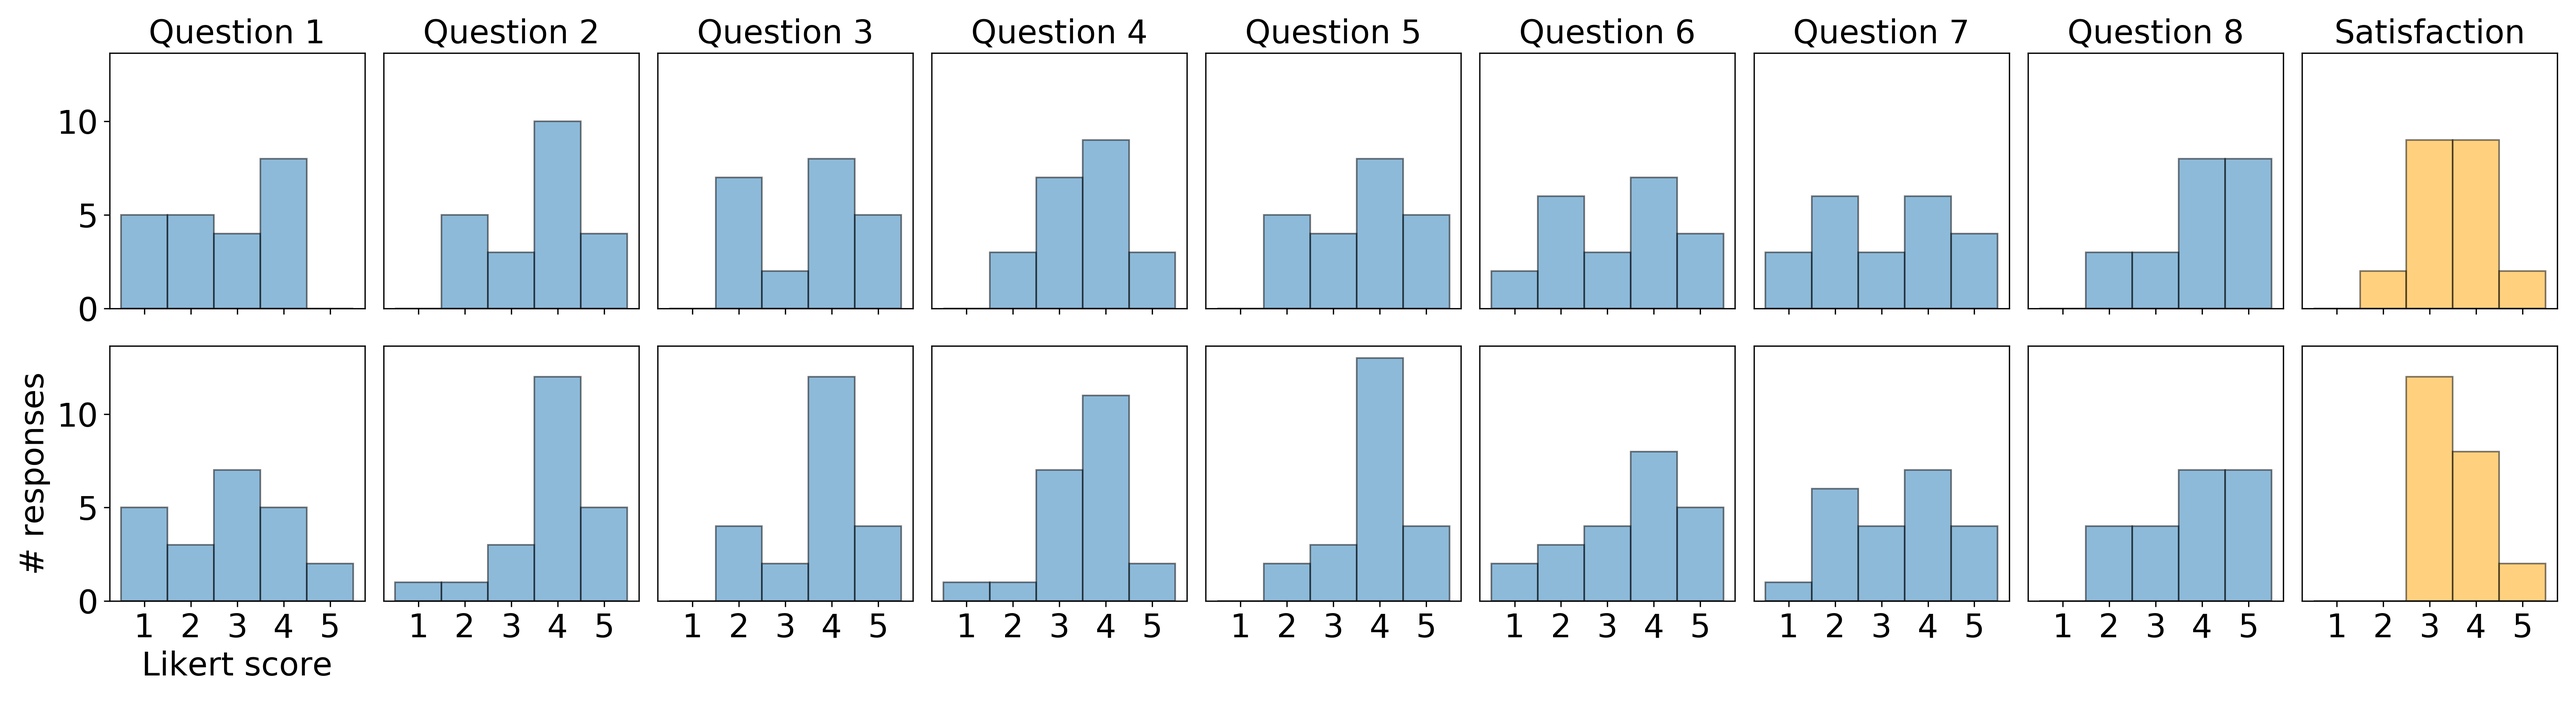
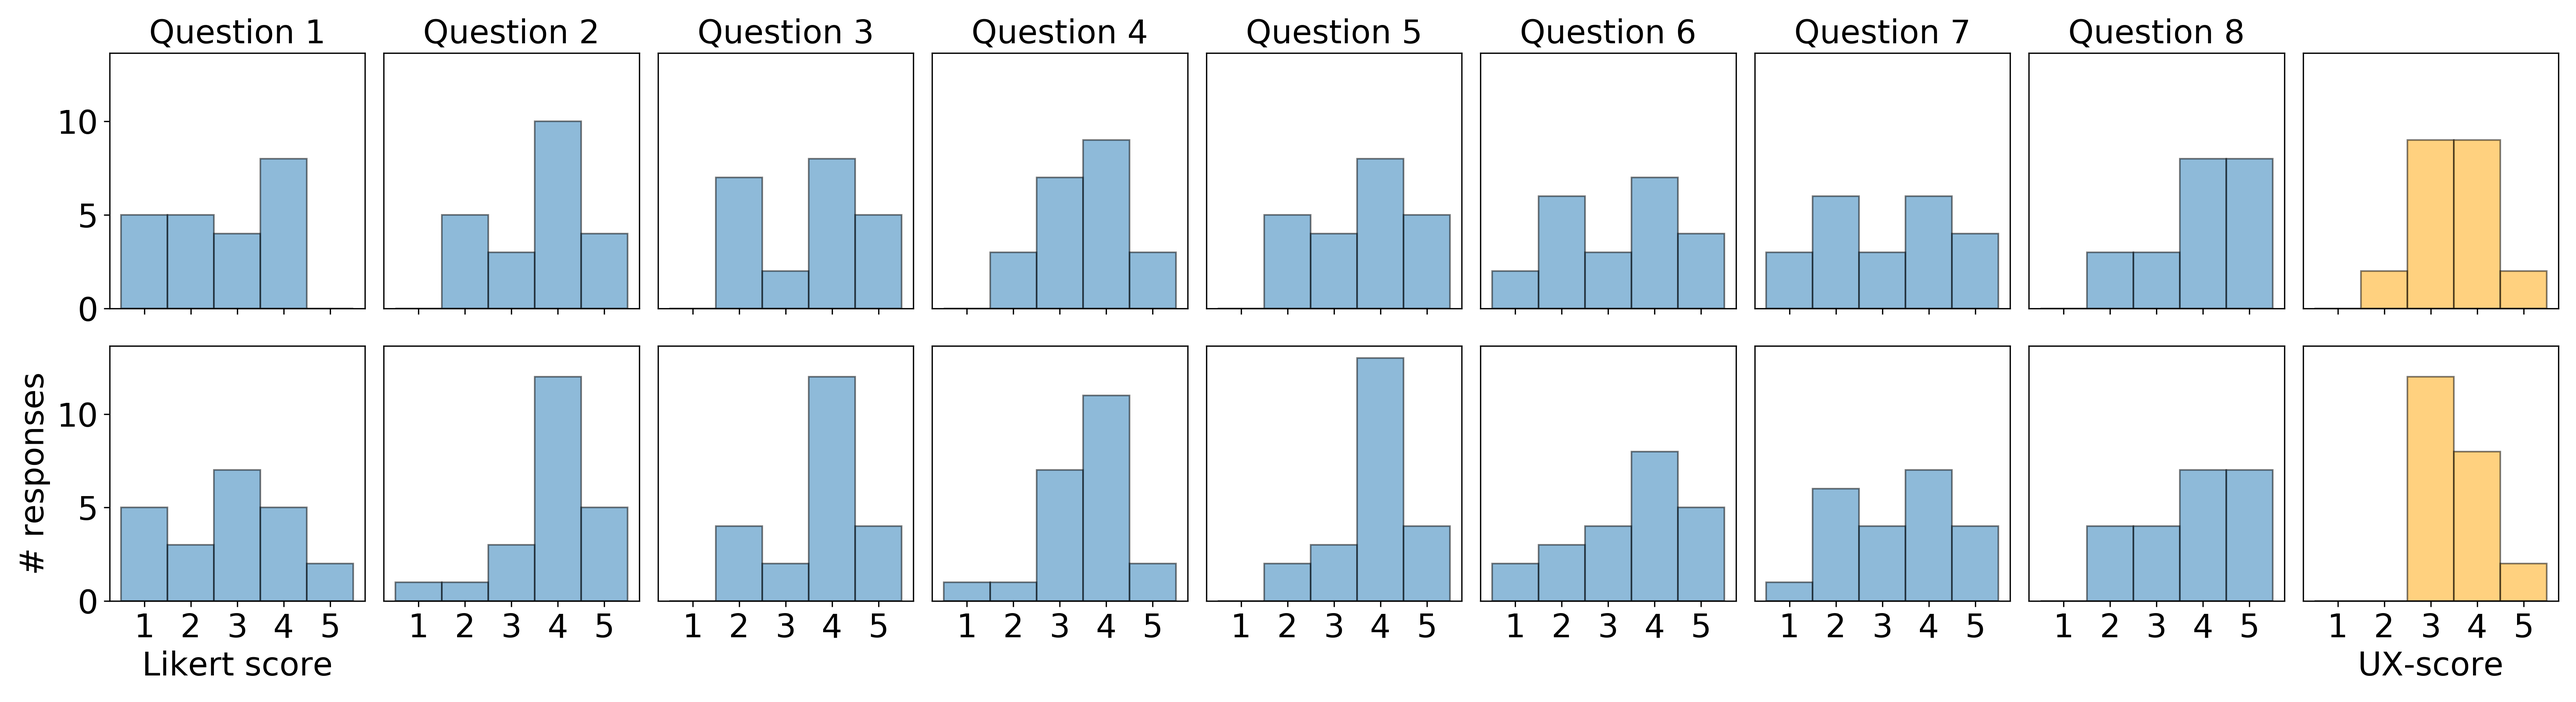
Change labels and titles.

diff --git a/survey_analysis.py b/survey_analysis.py
@@ -149,7 +149,7 @@ def __plot_distribution(ax, show_yticks, show_ylabel, title, data, color=False, 
     if show_ylabel:
         if density:
             ax.set_ylabel("distribution of responses", fontsize=fontsize)
-            ax.set_xlabel("satisfaction score", fontsize=fontsize)
+            ax.set_xlabel("Likert score", fontsize=fontsize)
         else:
             ax.set_ylabel("# responses", fontsize=fontsize)
             ax.set_xlabel("Likert score", fontsize=fontsize)
@@ -170,8 +170,9 @@ def plot_distributions(survey, save_file):
     for i in range(8):
         __plot_distribution(ax[0][i], i == 0, False, f"Question {i + 1}", survey.get_question_scores(i, False))
         __plot_distribution(ax[1][i], i == 0, i == 0, None, survey.get_question_scores(i, True))
-    __plot_distribution(ax[0][8], False, False, "Satisfaction", survey.get_total_scores(False), color=True)
+    __plot_distribution(ax[0][8], False, False, None, survey.get_total_scores(False), color=True)
     __plot_distribution(ax[1][8], False, False, None, survey.get_total_scores(True), color=True)
+    ax[1][8].set_xlabel("UX-score", fontsize=20)
     plt.tight_layout()
     if save_file:
         plt.savefig("images/hist_question_score_responses.png", dpi=300)
@@ -181,8 +182,8 @@ def plot_condensed_distribution(survey, save_file):
     fig, ax = plt.subplots(1, 2, figsize=(18, 6), sharey="all", sharex="all")
     data_without = [x for i in range(8) for x in survey.get_question_scores(i, False)]
     data_with = [x for i in range(8) for x in survey.get_question_scores(i, True)]
-    __plot_distribution(ax[0], True, True, "Without implicit confirmation", data_without, density=True)
-    __plot_distribution(ax[1], False, False, "With implicit confirmation", data_with, density=True)
+    __plot_distribution(ax[0], True, True, "implicit confirmation OFF", data_without, density=True)
+    __plot_distribution(ax[1], False, True, "implicit confirmation ON", data_with, density=True)
     plt.tight_layout()
     if save_file:
         plt.savefig("images/hist_question_score_responses_condensed.png", dpi=300)
@@ -191,12 +192,12 @@ def plot_condensed_distribution(survey, save_file):
 def plot_error_bars(survey, save_file):
     fontsize = 20
     params = [
-        ("a", False, "A\nwithout"),
-        ("a", True, "A\nwith"),
-        ("b", False, "B\nwithout"),
-        ("b", True, "B\nwith"),
-        ("", False, "Total\nwithout"),
-        ("", True, "Total\nwith")
+        ("a", False, "A-OFF"),
+        ("a", True, "A-ON"),
+        ("b", False, "B-OFF"),
+        ("b", True, "B-ON"),
+        ("", False, "Total-OFF"),
+        ("", True, "Total-ON")
     ]
     means, sterrs, labels, xticks = [], [], [], []
     for i, param in enumerate(params):
@@ -213,7 +214,7 @@ def plot_error_bars(survey, save_file):
     fig, ax = plt.subplots(1, 1, figsize=(10, 8))
     ax.bar(xticks[:4], means[:4], yerr=sterrs[:4], align="center", alpha=0.5, ecolor="black", capsize=10)
     ax.bar(xticks[4:], means[4:], yerr=sterrs[4:], align="center", alpha=0.5, ecolor="black", capsize=10)
-    ax.set_ylabel("satisfaction score", fontsize=fontsize)
+    ax.set_ylabel("UX-score", fontsize=fontsize)
     ax.set_xticks(xticks)
     ax.set_xticklabels([p[2] for p in params], fontsize=fontsize)
     ax.yaxis.grid(True)
